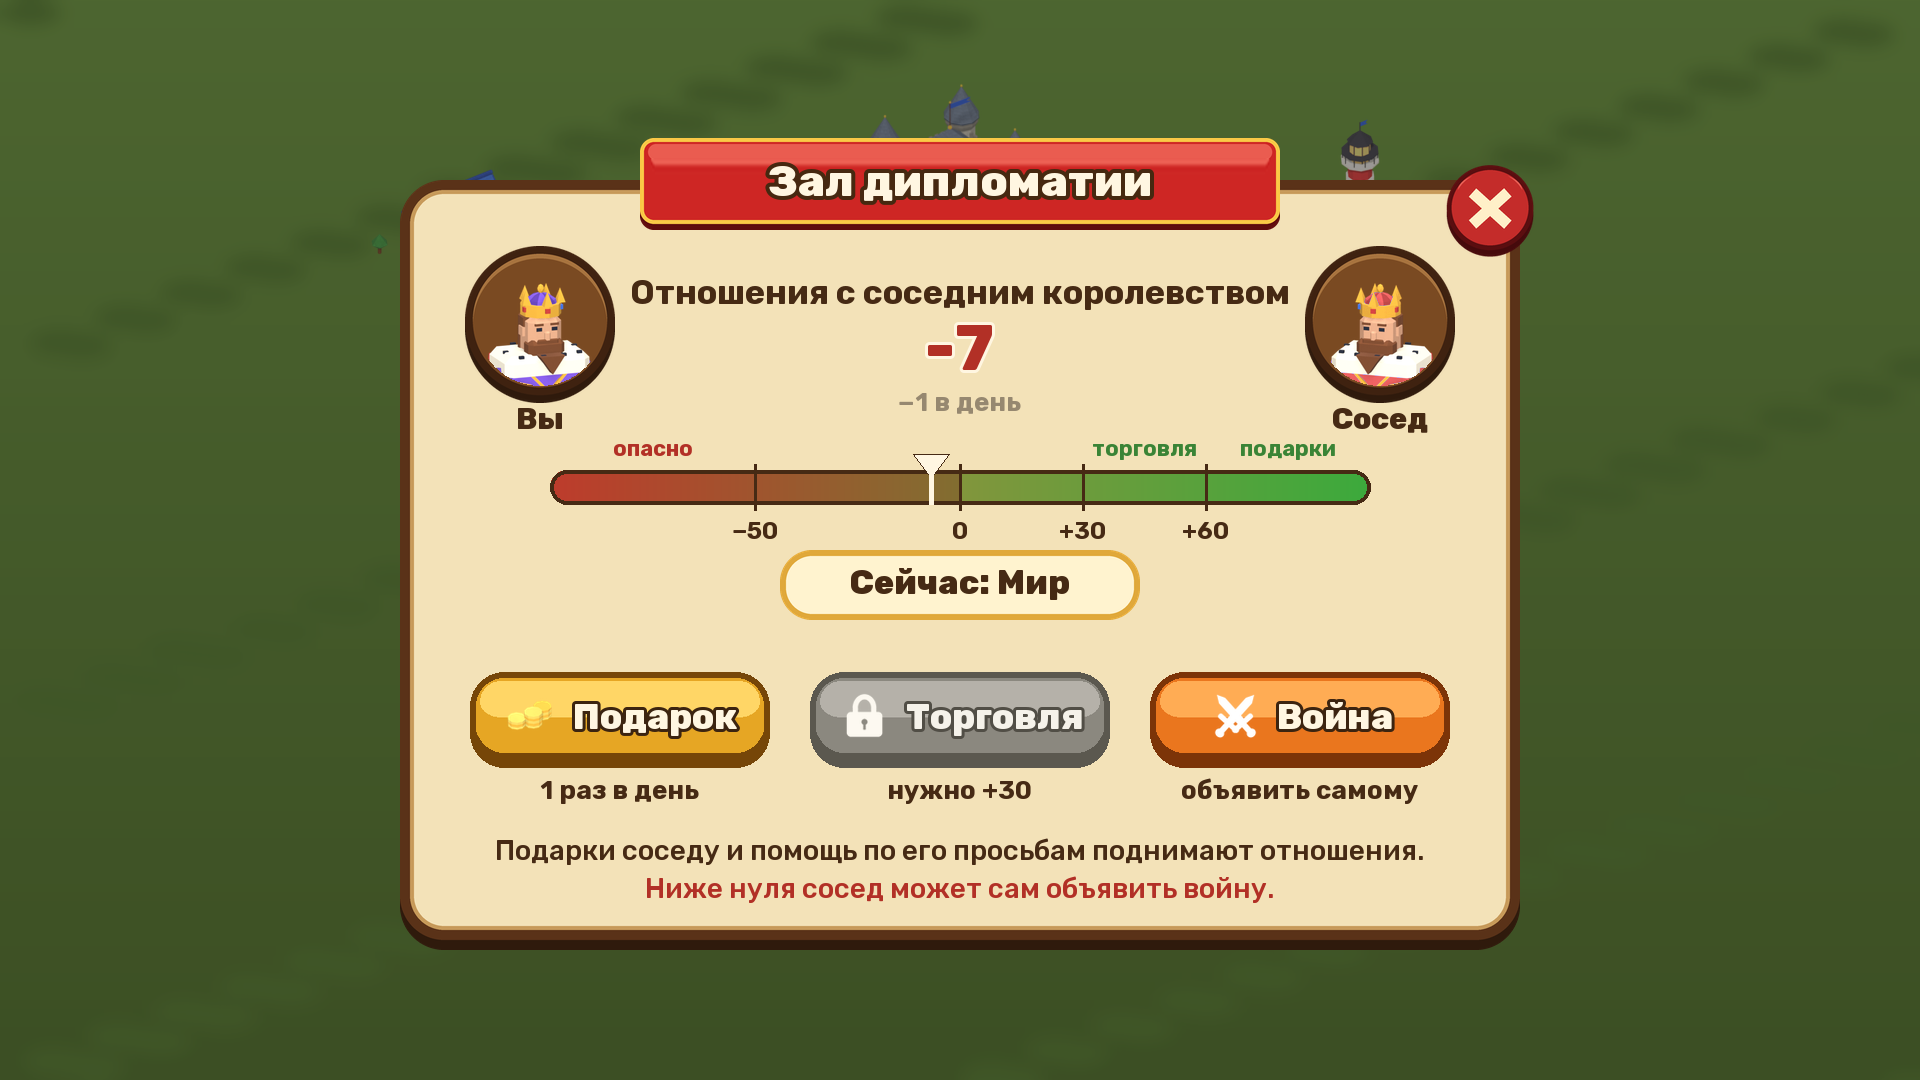
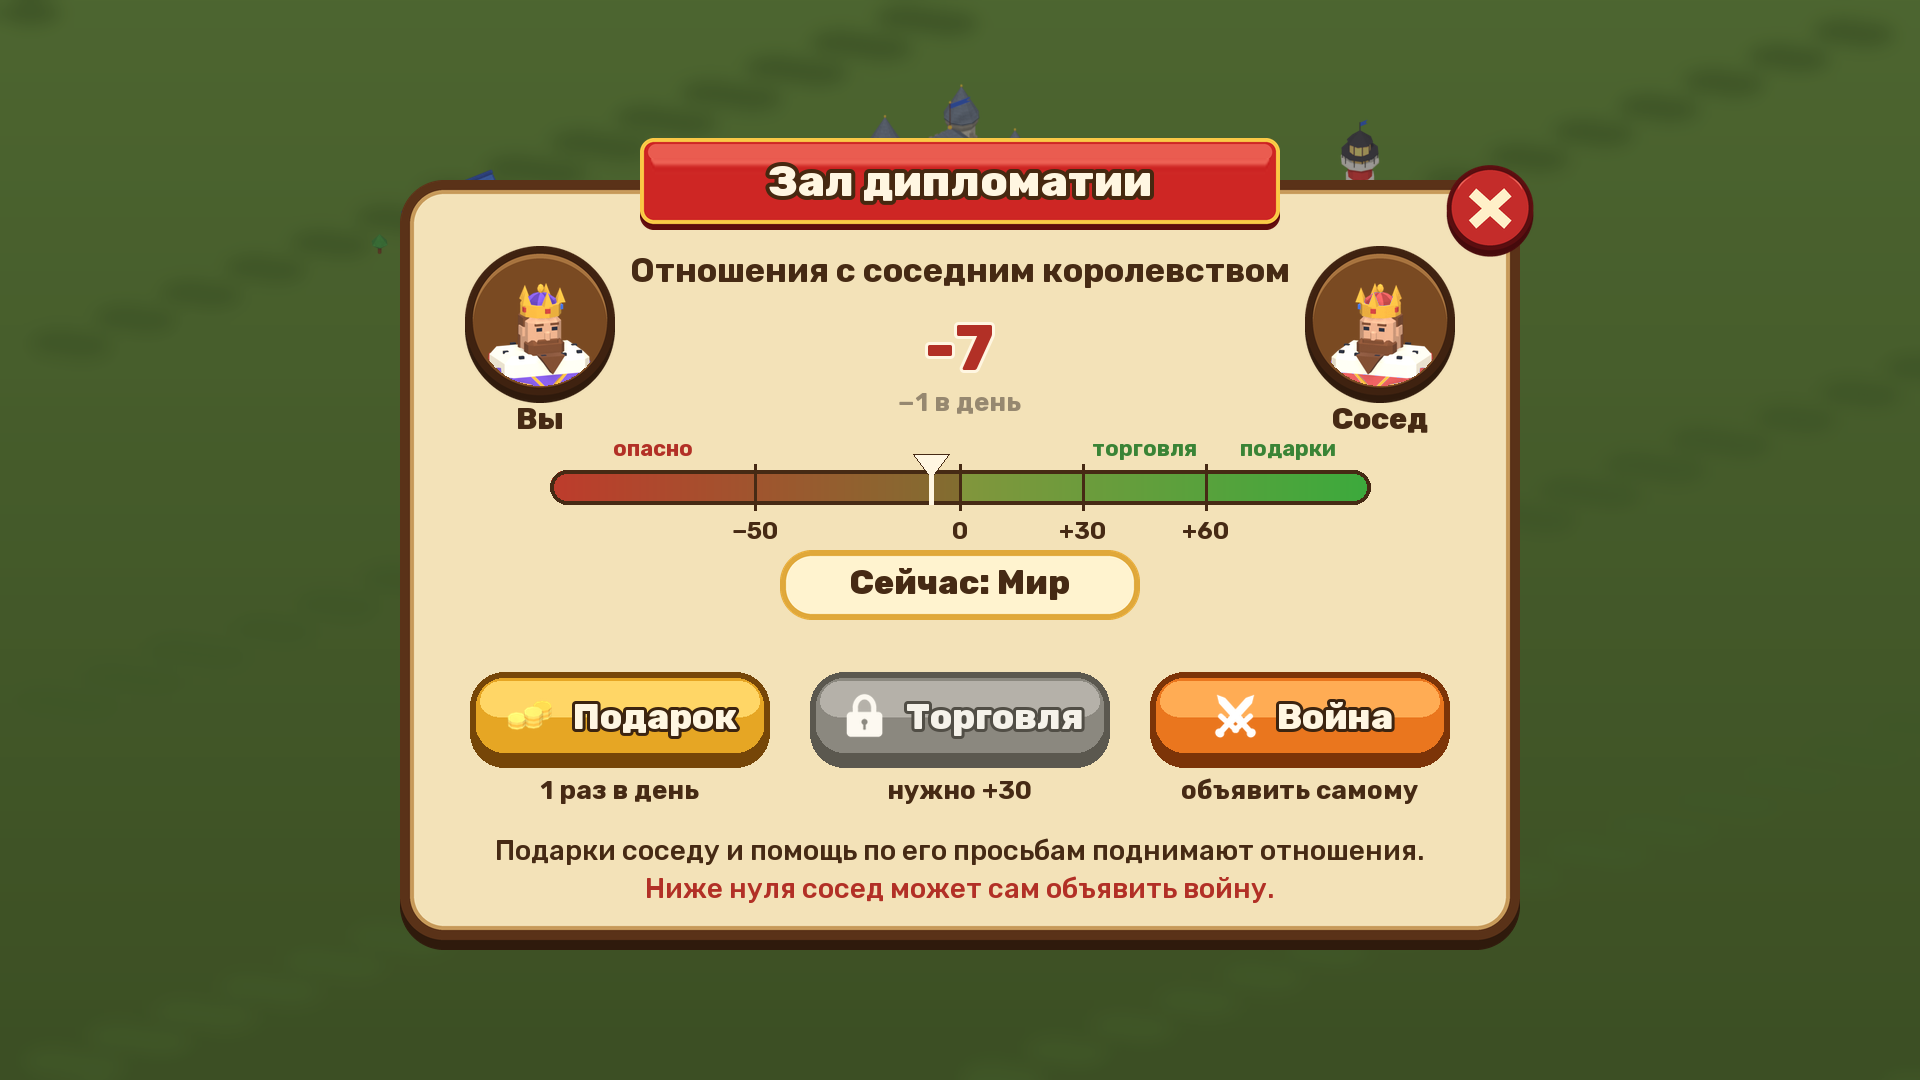
Diplomacy window: relations caption raised

Changed region(s): [[0.3125, 0.2444, 0.6875, 0.3056]]

diff --git a/Tools/ui/diplomacy_concepts.py b/Tools/ui/diplomacy_concepts.py
@@ -245,7 +245,7 @@ def main_window(war=False):
     put(c, king_badge(150, True), px + pw - 140, py + 145)
     text(d, (px + pw - 140, py + 238), "Сосед", 30)
     value = -64 if war else -7
-    text(d, (cx, py + 112), "Отношения с соседним королевством", 34, INK, "Bold")
+    text(d, (cx, py + 90), "Отношения с соседним королевством", 34, INK, "Bold")
     vcol = RED if value < 0 else GREEN
     text(d, (cx, py + 168), f"{value:+d}", 64, vcol, stroke=3, stroke_fill=CREAM)
     text(d, (cx, py + 222), "−1 в день", 26, GREY, "Bold")
